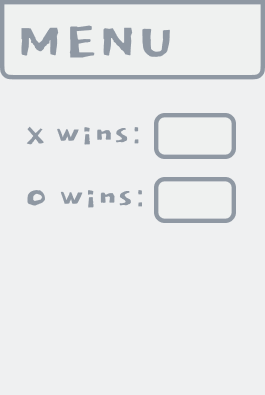
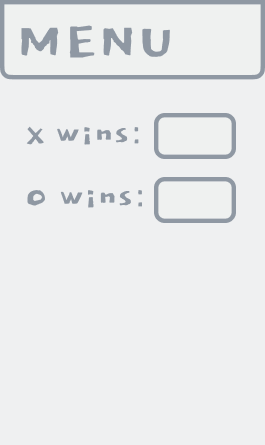
ADDED FEATURES: Menu with score tackers, with the ability to export(txt file) and reset (live tracking)

diff --git a/src/main/java/com/example/portfilioproject/TicTacToeApp.java b/src/main/java/com/example/portfilioproject/TicTacToeApp.java
@@ -43,7 +43,7 @@ public class TicTacToeApp extends Application {
     private static Stage menuStage;
     private MediaPlayer bgmPlayer;
     private MediaPlayer fastBgmPlayer;
-
+    private static BooleanProperty vsComputer = new SimpleBooleanProperty(false); // Game Mode State
     private BooleanProperty isMuted = new SimpleBooleanProperty(false); // Sound State
 
 
@@ -281,9 +281,12 @@ public class TicTacToeApp extends Application {
                 gridBtn.setOnAction(e -> {
                     if(!isClicked[row][col]) {
                         turns(row, col, gridBtn, currentPlayer, board, stage);
-                        currentPlayer = currentPlayer == 'X' ? 'O' : 'X';
+                        if(vsComputer.get() && currentPlayer == 'X') {
+                            makeCreatorAIMove(board, stage);
+                        } else if (!vsComputer.get()) {
+                            currentPlayer = currentPlayer == 'X' ? 'O' : 'X';
+                        }
                     }
-
                 });
 
                 // Preview move on hover
@@ -310,6 +313,8 @@ public class TicTacToeApp extends Application {
         gameLayering.getChildren().addAll(bkgCloud, lines, grid);
         return gameLayering;
     }
+
+
 
     /**
      * Updates the game state based on the current player's move, and checks for a winning condition.
@@ -475,7 +480,7 @@ public class TicTacToeApp extends Application {
         menuStage = new Stage();
         menuStage.initStyle(StageStyle.UNDECORATED);
         menuStage.initOwner(stage);
-        menuStage.setHeight(395);
+        menuStage.setHeight(445);
         menuStage.setWidth(265);
         menuStage.setResizable(false);
 
@@ -509,11 +514,6 @@ public class TicTacToeApp extends Application {
             menuStage.setY(e.getScreenY());
         });
 
-        // Create spacer to push the buttons down and to monitor spacing
-        Region spacerBetweenIconAndScores = new Region();
-        spacerBetweenIconAndScores.setPrefHeight(30);
-        Region spacerBelowScoreBoxes = new Region();
-        VBox.setVgrow(spacerBelowScoreBoxes, Priority.ALWAYS);
 
         // Create Labels for X and O win counts
         xWinsText.setStyle("-fx-font-size: 32px; -fx-text-fill: #5a5a66;");
@@ -557,6 +557,30 @@ public class TicTacToeApp extends Application {
         // Action effect - call method to export the scores to a txt file
         btnExportScores.setOnAction(e -> exportScoresToFile());
 
+        // Create Change Mode Button
+        Button btnChangeMode = new Button();
+        btnChangeMode.setGraphic(new ImageView(FileAssets.PLAYER_VERSUS_PLAYER)); // Default Mode (player vs player)
+        btnChangeMode.setStyle("-fx-background-color: transparent;");
+
+        // Sync icon whenever state changes
+        vsComputer.addListener((observable, oldValue, newValue) -> {
+            btnChangeMode.setGraphic(new ImageView(newValue ? FileAssets.VERSUS_COMPUTER : FileAssets.PLAYER_VERSUS_PLAYER));
+        });
+
+        // Button hover actions - change to the opposite of the curr state
+        btnChangeMode.setOnMouseEntered(e -> {
+            btnChangeMode.setGraphic(new ImageView(vsComputer.get() ? FileAssets.PLAYER_VERSUS_PLAYER : FileAssets.VERSUS_COMPUTER));
+        });
+        btnChangeMode.setOnMouseExited(e -> {
+            btnChangeMode.setGraphic(new ImageView(vsComputer.get() ? FileAssets.VERSUS_COMPUTER : FileAssets.PLAYER_VERSUS_PLAYER));
+        });
+
+        // Switch the mode when clicked
+        btnChangeMode.setOnAction(e -> {
+            vsComputer.set(!vsComputer.get());
+            System.out.println("Mode Switched: " + (vsComputer.get() ? "Player VS Computer" : "Player VS Player"));
+        });
+
         // Create Menu Close Button
         Button btnMenuClose = new Button();
         btnMenuClose.setGraphic(new ImageView(FileAssets.MENU_CLOSE));
@@ -575,29 +599,30 @@ public class TicTacToeApp extends Application {
         topBar.setAlignment(Pos.TOP_RIGHT);
         topBar.getChildren().add(btnMenuClose);
 
-        // Create VBox to hold the bottom buttons
-        VBox buttonBox = new VBox(20);
-        buttonBox.setPadding(new Insets(0, 0, -20, 0));
-        buttonBox.setAlignment(Pos.BOTTOM_CENTER);
-        buttonBox.getChildren().addAll(btnResetScores, btnExportScores);
+
 
         // Create VBox to hold the layout
         VBox menuLayout = new VBox(20);
         menuLayout.setAlignment(Pos.TOP_CENTER);
-        menuLayout.setPadding(new Insets(0, 40, 40, 40));
+        menuLayout.setPadding(new Insets(0, 40, 0, 40));
+        menuLayout.getChildren().add(topBar);
 
-        // Add all the created buttons to the layout VBox
-        menuLayout.getChildren().addAll(
-                topBar,
-                spacerBetweenIconAndScores,
-                spacerBelowScoreBoxes,
-                buttonBox
-        );
+        Region spacer = new Region();
+        VBox.setVgrow(spacer, Priority.ALWAYS);
+
+        // Create VBox to hold the bottom buttons
+        VBox buttonBox = new VBox(10);
+        buttonBox.setPadding(new Insets(0, 0, 20, 0));
+        buttonBox.setAlignment(Pos.CENTER);
+        buttonBox.getChildren().addAll(btnResetScores, btnExportScores, btnChangeMode);
+        //StackPane.setAlignment(buttonBox, Pos.BOTTOM_CENTER);
+
+        menuLayout.getChildren().addAll(spacer, buttonBox);
 
         // Add the background, score labels, and menu layout to the Stack Pane
         menuStack.getChildren().addAll(MenuBackground, labelLayer, menuLayout);
 
-        Scene menuScene = new Scene(menuStack, 265, 395);
+        Scene menuScene = new Scene(menuStack, 265, 445);
         menuStage.setScene(menuScene);
         menuStage.show();
     }

diff --git a/src/main/java/com/example/portfilioproject/FileAssets.java b/src/main/java/com/example/portfilioproject/FileAssets.java
@@ -27,6 +27,8 @@ public class FileAssets  {
     public static Image RESET_SCORES_HOVER;
     public static Image EXPORT_SCORES;
     public static Image EXPORT_SCORES_HOVER;
+    public static Image VERSUS_COMPUTER;
+    public static Image PLAYER_VERSUS_PLAYER;
 
     //Play Buttons
     public static Image START;
@@ -88,6 +90,8 @@ public class FileAssets  {
         RESET_SCORES_HOVER = loadImages("images/buttons/btnResetScores_Hovered.png");
         EXPORT_SCORES = loadImages("images/buttons/btnExportScores.png");
         EXPORT_SCORES_HOVER = loadImages("images/buttons/btnExportScores_Hovered.png");
+        VERSUS_COMPUTER = loadImages("images/buttons/btnVSComputer.png");
+        PLAYER_VERSUS_PLAYER = loadImages("images/buttons/btnPlayerVSPlayer.png");
 
 
         //Play Buttons
